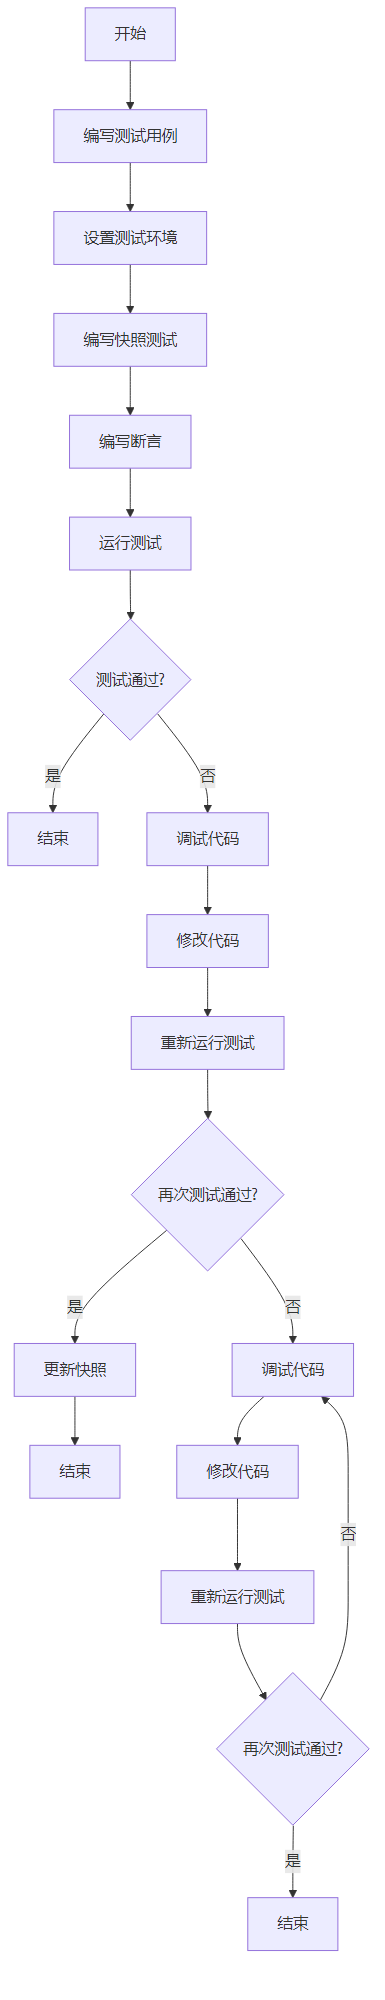
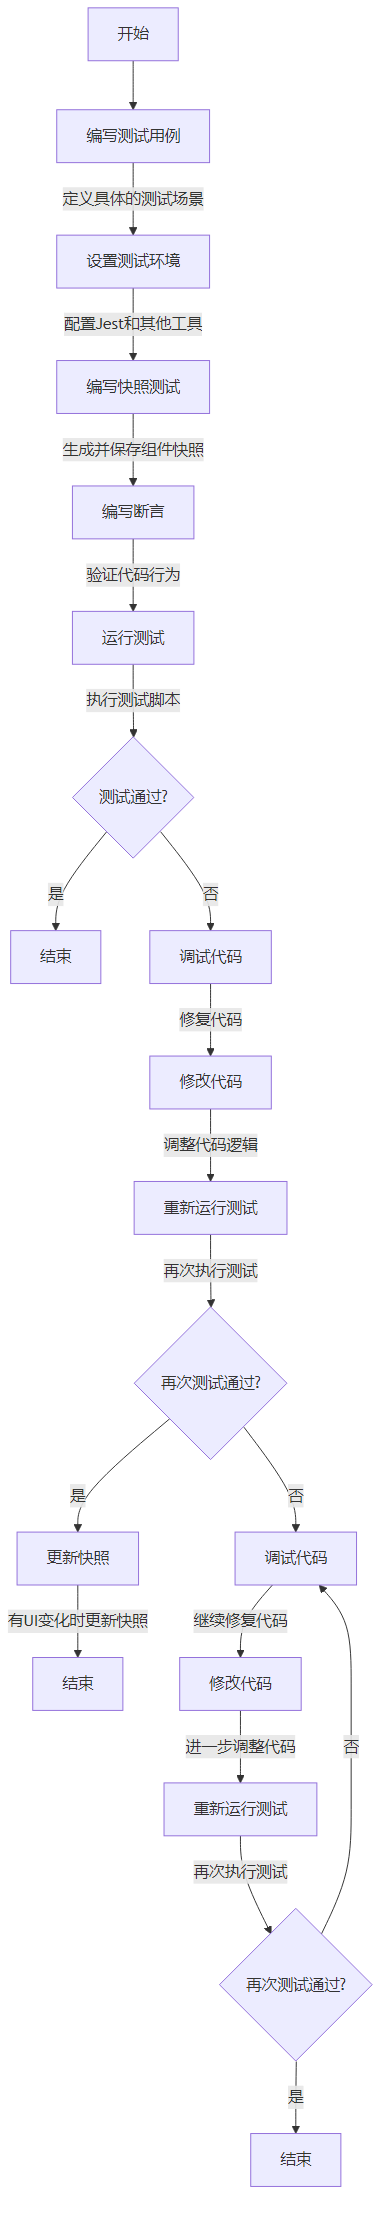
feat:添加流程图文档

diff --git a/docs/前端单元测试.md b/docs/前端单元测试.md
@@ -1,6 +1,6 @@
-前端开发中的单元测试是指对代码中的最小可测试单位（通常是一个函数或组件）进行测试，以确保其行为符合预期。单元测试可以提高代码质量，减少错误，促进代码的可维护性和可扩展性。
+## 前言
 
-以下是关于前端单元测试的详细学习指南，帮助你从零开始了解并掌握前端单元测试的流程和实践。
+前端开发中的单元测试是指对代码中的最小可测试单位（通常是一个函数或组件）进行测试，以确保其行为符合预期。单元测试可以提高代码质量，减少错误，促进代码的可维护性和可扩展性。
 
 ---
 
@@ -22,15 +22,21 @@
 
 ---
 
-## 三、前端单元测试的标准流程
+## 三、单元测试案例
+
+**[标准的测试案例流程如下图]**
 
 ![前端单元测试标准流程](./diagram.png)
+
+**[规范的项目单元测试，以Ant Design 为例]**
+
+![jest单元测试截图](./test-dir.png)
 
 ### 1. **选择测试框架和工具**
 
 常用的前端单元测试框架有：
 
-- **Jest**：由 Facebook 开发，适用于 React 以及其他 JavaScript 项目，内置断言库、模拟功能，开箱即用。
+- **Jest**：由 Facebook 开发，适用于 React 以及其他 JavaScript 项目，内置断言库、模拟功能，开箱即用。本文使用Jest。
 - **Mocha**：功能强大的测试框架，需要结合断言库（如 Chai）和测试工具（如 Sinon）使用。
 - **Jasmine**：完整的测试框架，内置断言和模拟功能，无需额外依赖。
 - **Karma**：测试运行器，可与 Mocha、Jasmine 等框架结合，适用于需要在真实浏览器中运行测试的场景。
@@ -91,61 +97,15 @@ test('1 加 2 应该等于 3', () => {
 ---
 
 ## 四、前端单元测试的最佳实践
-
-1. **编写可测试的代码**：函数应尽量保持纯粹，减少对外部环境的依赖。
-2. **保持测试的独立性**：测试用例之间不应有依赖，确保可以单独运行。
-3. **使用模拟（Mock）**：对网络请求、数据库操作等外部依赖进行模拟。
-4. **覆盖边界情况**：不仅要测试正常情况，还要测试异常和边界值。
-5. **持续集成**：将测试集成到 CI 流程中，自动化运行测试。
-
----
-
-## 五、常用的测试工具和库
-
-- **断言库**：
-  - **Chai**：适用于 Mocha，提供丰富的断言风格。
-- **测试辅助工具**：
-  - **Sinon**：用于函数的模拟（Mock）、存根（Stub）和间谍（Spy）。
-- **组件测试工具**：
-  - **Enzyme**：由 Airbnb 开发，适用于 React 组件测试。
-  - **React Testing Library**：更关注测试组件的行为而非实现细节。
-
----
-
-## 六、推荐的学习资源
-
-### 1. **官方文档**
-
-- [Jest 官方文档](https://jestjs.io/zh-Hans/)
-- [Mocha 官方文档](https://mochajs.org/)
-- [Jasmine 官方文档](https://jasmine.github.io/)
-
----
-
-## 八、总结
-
-前端单元测试是提升代码质量和开发效率的重要手段。通过学习和实践，你将能够：
-
-- **熟练使用测试框架和工具**。
-- **编写高质量的测试用例**。
-- **在开发过程中及时发现并修复问题**。
-- **提高代码的可维护性和可靠性**。
-
-建议你从官方文档和基础教程开始，结合实际项目进行练习，不断积累经验。
-
-祝你在前端单元测试的学习之路上一切顺利！
-
-在前端开发中，单元测试是确保代码质量和稳定性的重要手段之一。而 Snapshot（快照）测试作为其中的一种测试方式，已被广泛应用于检测 UI 组件和函数输出的变化。下面将详细介绍快照测试的概念、用途以及使用方法。
-
-## 什么是 Snapshot（快照）测试？
+### 1、 Snapshot（快照）测试
 
 **Snapshot 测试**，中文称为**快照测试**，是一种自动化测试技术，用于捕获代码或组件在某一特定时间点的输出结果（或渲染结果），并将其存储为快照文件。在后续的测试运行中，当前输出结果会与之前的快照进行比较，以检测是否存在意料之外的变化。
 
-## 快照文件是什么？
+### 快照文件是什么
 
 快照文件通常是由测试框架生成和维护的，用于存储被测试对象的输出结果。这些文件通常以特定的格式（如 JSON 或特定的序列化格式）保存，便于在人类可读和机器可比较之间取得平衡。
 
-## Snapshot 测试的用途
+### Snapshot 测试的用途
 
 1. **检测UI变化**：在前端开发中，组件的 UI 渲染是核心部分。快照测试可以捕获组件的渲染输出（如 DOM 结构或虚拟 DOM），从而检测组件 UI 是否发生了意外变化。
 
@@ -153,7 +113,7 @@ test('1 加 2 应该等于 3', () => {
 
 3. **防止回归**：当代码发生改变时，快照测试可以帮助开发者迅速发现由于修改引入的回归问题。
 
-## 快照测试的工作原理
+### 快照测试的工作原理
 
 1. **初次运行**：当第一次运行快照测试时，测试框架会生成被测试对象的输出结果，并将其保存为快照文件。
 
@@ -165,11 +125,11 @@ test('1 加 2 应该等于 3', () => {
 
 4. **快照更新**：如果变化是预期的，开发者可以选择更新快照文件，以反映新的输出结果。
 
-## 如何使用 Snapshot 测试
+### 如何使用 Snapshot 测试
 
 以 **Jest** 测试框架为例，介绍快照测试的基本使用方法：
 
-### 对于 React 组件
+####  对于 React 组件
 
 ```javascript
 import React from 'react';
@@ -188,7 +148,7 @@ test('MyComponent 渲染测试', () => {
 - `toJSON()` 方法将渲染输出转换为 JSON 对象。
 - `expect(tree).toMatchSnapshot()` 将当前输出与快照进行比较。
 
-### 对于函数输出
+#### 对于函数输出
 
 ```javascript
 import { generateData } from './utils';
@@ -199,13 +159,13 @@ test('generateData 函数输出测试', () => {
 });
 ```
 
-## 快照测试的优势
+###  快照测试的优势
 
 - **简洁高效**：无需编写详细的断言语句，一行代码即可捕获和比较复杂的输出结果。
 - **维护方便**：当输出结果发生预期变化时，只需更新快照文件，无需重新编写测试代码。
 - **提高覆盖率**：可以轻松地对大量组件和函数进行测试，提高测试覆盖率。
 
-## 快照测试的注意事项
+###  快照测试的注意事项
 
 1. **不要轻易更新快照**：在测试失败时，应仔细检查差异，确认变化是预期的，才更新快照文件。否则可能会忽略真正的错误。
 
@@ -215,7 +175,7 @@ test('generateData 函数输出测试', () => {
 
 4. **非替代其它测试**：快照测试应作为测试策略的一部分，不能完全替代手动断言或交互测试。
 
-## 常用的快照测试工具
+###  常用的快照测试工具
 
 - **Jest**：Facebook 开发的 JavaScript 测试框架，内置了快照测试功能，广泛用于 React、Vue 等前端项目。
 - **AVA**：支持快照测试的 JavaScript 测试框架，具有并行执行测试的特点。
@@ -295,7 +255,7 @@ test('generateData 函数输出测试', () => {
 
 ## 举个具体例子
 
-假设你有以下 React 组件：
+假设有以下 React 组件：
 
 ```jsx
 function Greeting({ name }) {
@@ -303,7 +263,7 @@ function Greeting({ name }) {
 }
 ```
 
-### 你编写了一个快照测试：
+### 编写了一个快照测试：
 
 ```javascript
 test('Greeting 组件渲染测试', () => {
@@ -347,4 +307,144 @@ function Greeting({ name }) {
 
 - **最佳实践**：应同时使用 Git 进行代码管理和快照测试进行行为验证，二者互补提高代码质量和可靠性。
 
-希望以上解释能帮助你更清晰地理解快照测试和 Git 之间的区别，以及为什么在前端单元测试中需要使用快照测试。
+## 2、断言
+在 `Jest` 中，`expect` 函数用于创建一个断言（assertion），以验证代码的行为是否符合预期。具体来说，`expect` 函数返回一个对象，该对象包含多个匹配器（matchers）方法，用于比较实际值和期望值。
+
+在你的示例中：
+
+```javascript
+test('adds 1 + 2 to equal 3', () => {
+  expect(sum(1, 2)).toBe(3);
+});
+```
+
+- `test` 或 `it` 是定义测试用例的方法。
+- `'adds 1 + 2 to equal 3'` 是测试用例的描述。
+- `expect(sum(1, 2))` 创建了一个断言对象，表示你期望 `sum(1, 2)` 的结果。
+- `.toBe(3)` 是一个匹配器方法，用于验证 `sum(1, 2)` 的结果是否严格等于 `3`。
+
+### 断言的基本结构
+
+断言的基本结构通常是：
+```javascript
+expect(actualValue).matcher(expectedValue);
+```
+
+其中：
+- `actualValue` 是你要验证的实际值。
+- `matcher` 是用于比较 `actualValue` 和 `expectedValue` 的方法。
+- `expectedValue` 是你期望的实际值应该是什么样的。
+
+### 常见的匹配器
+
+以下是一些常用的匹配器示例：
+
+- **相等性匹配器:**
+  
+  ```javascript
+  expect(value).toBe(expected); // 检查两个值是否严格相等（===）
+  expect(value).toEqual(expected); // 检查两个值是否深度相等
+  ```
+  
+- **真值匹配器:**
+  ```javascript
+  expect(value).toBeTruthy(); // 检查值是否为真值（truthy）
+  expect(value).toBeFalsy(); // 检查值是否为假值（falsy）
+  ```
+
+- **数字匹配器:**
+  ```javascript
+  expect(number).toBeGreaterThan(expected); // 检查数值是否大于某个值
+  expect(number).toBeLessThan(expected); // 检查数值是否小于某个值
+  ```
+
+- **数组和对象匹配器:**
+  ```javascript
+  expect(array).toContain(item); // 检查数组是否包含某个元素
+  expect(object).toHaveProperty(key, value); // 检查对象是否包含某个属性及其值
+  ```
+
+- **异常匹配器:**
+  ```javascript
+  expect(() => function()).toThrow(error); // 检查函数是否抛出异常
+  ```
+
+### 示例
+
+以下是更多断言示例：
+
+```javascript
+// 相等性匹配器
+test('two plus two is four', () => {
+  expect(2 + 2).toBe(4);
+});
+
+// 真值匹配器
+test('null is falsy', () => {
+  expect(null).toBeFalsy();
+});
+
+// 数字匹配器
+test('adding positive numbers is not zero', () => {
+  for (let a = 1; a < 10; a++) {
+    for (let b = 1; b < 10; b++) {
+      expect(a + b).not.toBe(0);
+    }
+  }
+});
+
+// 数组匹配器
+const shoppingList = [
+  'diapers',
+  'kleenex',
+  'trash bags',
+  'paper towels',
+  'milk',
+];
+
+test('the shopping list has milk on it', () => {
+  expect(shoppingList).toContain('milk');
+});
+
+// 异常匹配器
+function compileAndroidCode() {
+  throw new Error('you are using the wrong JDK!');
+}
+
+test('compiling android goes as expected', () => {
+  expect(() => compileAndroidCode()).toThrow('you are using the wrong JDK!');
+});
+```
+
+1. **编写可测试的代码**：函数应尽量保持纯粹，减少对外部环境的依赖。
+2. **保持测试的独立性**：测试用例之间不应有依赖，确保可以单独运行。
+3. **使用模拟（Mock）**：对网络请求、数据库操作等外部依赖进行模拟。
+4. **覆盖边界情况**：不仅要测试正常情况，还要测试异常和边界值。
+5. **持续集成**：将测试集成到 CI 流程中，自动化运行测试。
+
+---
+
+## 五、常用的测试工具和库
+
+- **断言库**：
+  - **Chai**：适用于 Mocha，提供丰富的断言风格。
+- **测试辅助工具**：
+  - **Sinon**：用于函数的模拟（Mock）、存根（Stub）和间谍（Spy）。
+- **组件测试工具**：
+  - **Enzyme**：由 Airbnb 开发，适用于 React 组件测试。
+  - **React Testing Library**：更关注测试组件的行为而非实现细节。
+
+---
+
+## 六、推荐的学习资源
+
+- [Jest 官方文档](https://jestjs.io/zh-Hans/)
+- [Mocha 官方文档](https://mochajs.org/)
+- [Jasmine 官方文档](https://jasmine.github.io/)
+
+---
+
+## 七、总结
+
+在前端开发中，单元测试是确保代码质量和稳定性的重要手段之一。而 Snapshot（快照）测试作为其中的一种测试方式，已被广泛应用于检测 UI 组件和函数输出的变化。下面将详细介绍快照测试的概念、用途以及使用方法。 
+
